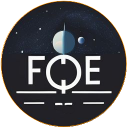
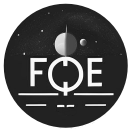
Plugins updated

diff --git a/Working/Fundamental.Outfit.Expansion/README.md b/Working/Fundamental.Outfit.Expansion/README.md
@@ -3,10 +3,14 @@
 
 **Authors:** see table
 
-**Thanks:** Kassandra Haruki, Kitteh, Questenberg, Unknown_Rawrs
+**Thanks:** Cend, Kassandra Haruki, Keilaph, Kitteh, Questenberg, Unknown_Rawrs
 
-Other fundamental content can be found in the plugin recommendation list.
+**Notes**
+- Other fundamental content can be found in the plugin recommendation list, especially see [Rumskib](https://github.com/TheGiraffe3/rumskib) for Plasma Turrets (Single, Quad) and Gatling Turrets (Single, Triple, Quad).
+- Overwrites the vanilla Heavy Blaster. Justified, as the vanilla HB's lore is imho heretic to the original by 1010todd.
+- The original concept for FOE's Shipwright Gear was introduced by Darcy Manoel and  [Hurleveur](https://github.com/Hurleveur) with the Shipwright Gear in [Fluff](https://github.com/Hecter94/EndlessSky-PluginArchive/blob/main/res/mds/ships.md#fluff) resp. the Repair Team in [Unfettered Innovations](https://github.com/Hurleveur/unfettered-innovations). The stats are a mix-up inspired from those. The concept was extended by toolset-slots and evolved into the Hesperian Toolbox.
 
+**Content**
 | Creator | Outfit | Origin |
 |---------|--------|--------|
 | *anonymous* | Afterburner Steerings<br>Heavy Rocket Turret<br>Meteor Turret<br>Sidewinder VLS<br>Dual Mining Laser Turret<br>Hailstorm Missile<br>Rapier Missile<br>Thunderbolt Missile<br>Surveillance Radar<br>Tactical Radar | [RW Extras](https://www.moddb.com/mods/rw-extras/downloads) collection
@@ -16,17 +20,14 @@ Other fundamental content can be found in the plugin recommendation list.
 | [J.C.Hamlin](https://github.com/jchamlin) | Particle Turrets | [Marauder Bactrian](https://github.com/jchamlin/marauder-bactrian) |
 | [Loyse](https://github.com/loiseeer) | Barrage Blaster<br>Flak Cannon | [Louise](https://github.com/LixiChronikouOriou/ES-plugins/blob/main/README.md#LouiseConglomerateShipyards) |
 | [Timeout](https://github.com/LixiChronikouOriou) | Hesperian Toolbox<br>HTS Artisan<br>HTS Crafter<br>Hesperian Red Lager | FOE |
-| [TheronEpic](https://github.com/TheronEpic) | Plasma Turret (Single)<br>Fuel Shields | [Epic Outfits](https://github.com/Hecter94/EndlessSky-PluginArchive/blob/main/res/mds/outfits.md#epic-outfits) |
+| [TheronEpic](https://github.com/TheronEpic) | Fuel Shields | [Epic Outfits](https://github.com/Hecter94/EndlessSky-PluginArchive/blob/main/res/mds/outfits.md#epic-outfits) |
 | [	Tommaso Becca](https://github.com/beccabunny) | Slave<br>Active Radar Jammer<br>Interference Emitters<br>Javelin Pod Turret | [Pirate Expansion](https://github.com/beccabunny/Pirate-Expansion) |
-
-The original concept for FOE's Shipwright Gear was introduced by Darcy Manoel and  [Hurleveur](https://github.com/Hurleveur) with the Shipwright Gear in [Fluff](https://github.com/Hecter94/EndlessSky-PluginArchive/blob/main/res/mds/ships.md#fluff) resp. the Repair Team in [Unfettered Innovations](https://github.com/Hurleveur/unfettered-innovations). The stats are a mix-up inspired from those. The concept was extended by toolset-slots and evolved into the Hesperian Toolbox.
-
-__Note__: Overwrites the vanilla Heavy Blaster. Justified, as the vanilla HB's lore is imho heretic to the original by 1010todd.
 
 **Changelog**
 
 | Date | Version | Comment |
 |------|---------|---------|
+| 2025-08-27 | 1.5.0 | Event fixes and tinkering. Removed Single Plasma Turret, only left its definition for compatibility (instead see [Rumskib](https://github.com/TheGiraffe3/rumskib)). Replaced images for Single and Dual Particle Turrets by ones in modern style. Fixed restocks for Flak Cannon and Javelin Pod Turret. Fuel shields now provide fuel protection. Removed for now the negative leak protection from compressed fuel pod because there's nothing that actually causes leak damage yet. Type 0 Radiant Engines also in advanced Wanderer outfitter, not only basic one. Removed unused files, beautified icon. |
 | 2025-07-19 | 1.4.0 | Added support for Omnis. Plus hotfixes. |
 | 2025-07-11 | 1.3.0 | Added subset of Pirate Expansion, updated with series and index specifications. Updated missile turrets after author's update. Reduced fuel consumption of the fuel shields. |
 | 2025-06-12 | 1.2.1 | Fixes. Tweaked PDP batteries. Added series and index specifications. |

diff --git a/Working/Louise.Conglomerate.Shipyards/README.md b/Working/Louise.Conglomerate.Shipyards/README.md
@@ -17,6 +17,7 @@ Yeer e Ki Cooperative Shipyards reached out to the Louise Conglomerate, and sign
 
 | Date | Version | Comment |
 |------|---------|---------|
+| 2025-08-27 | 1.2.1 | Ship variant fix to align with FOE 1.5.0 |
 | 2025-07-19 | 1.2.0 | Added support for Omnis. |
 | 2025-06-01 | 1.1.1 | Tweaked stock sale outfits. |
 | 2025-05-18 | 1.1.0 | Re-balanced the ships and their variants. Moved weapons to [FOE](https://github.com/LixiChronikouOriou/ES-plugins/blob/main/README.md#FundamentalOutfitExpansion). Pathfinder got 2 and Bulk Boxer 5 drone bays. Removed shipyards on Pirate planets. Added shipyard on Makerplace in Hai space. |
